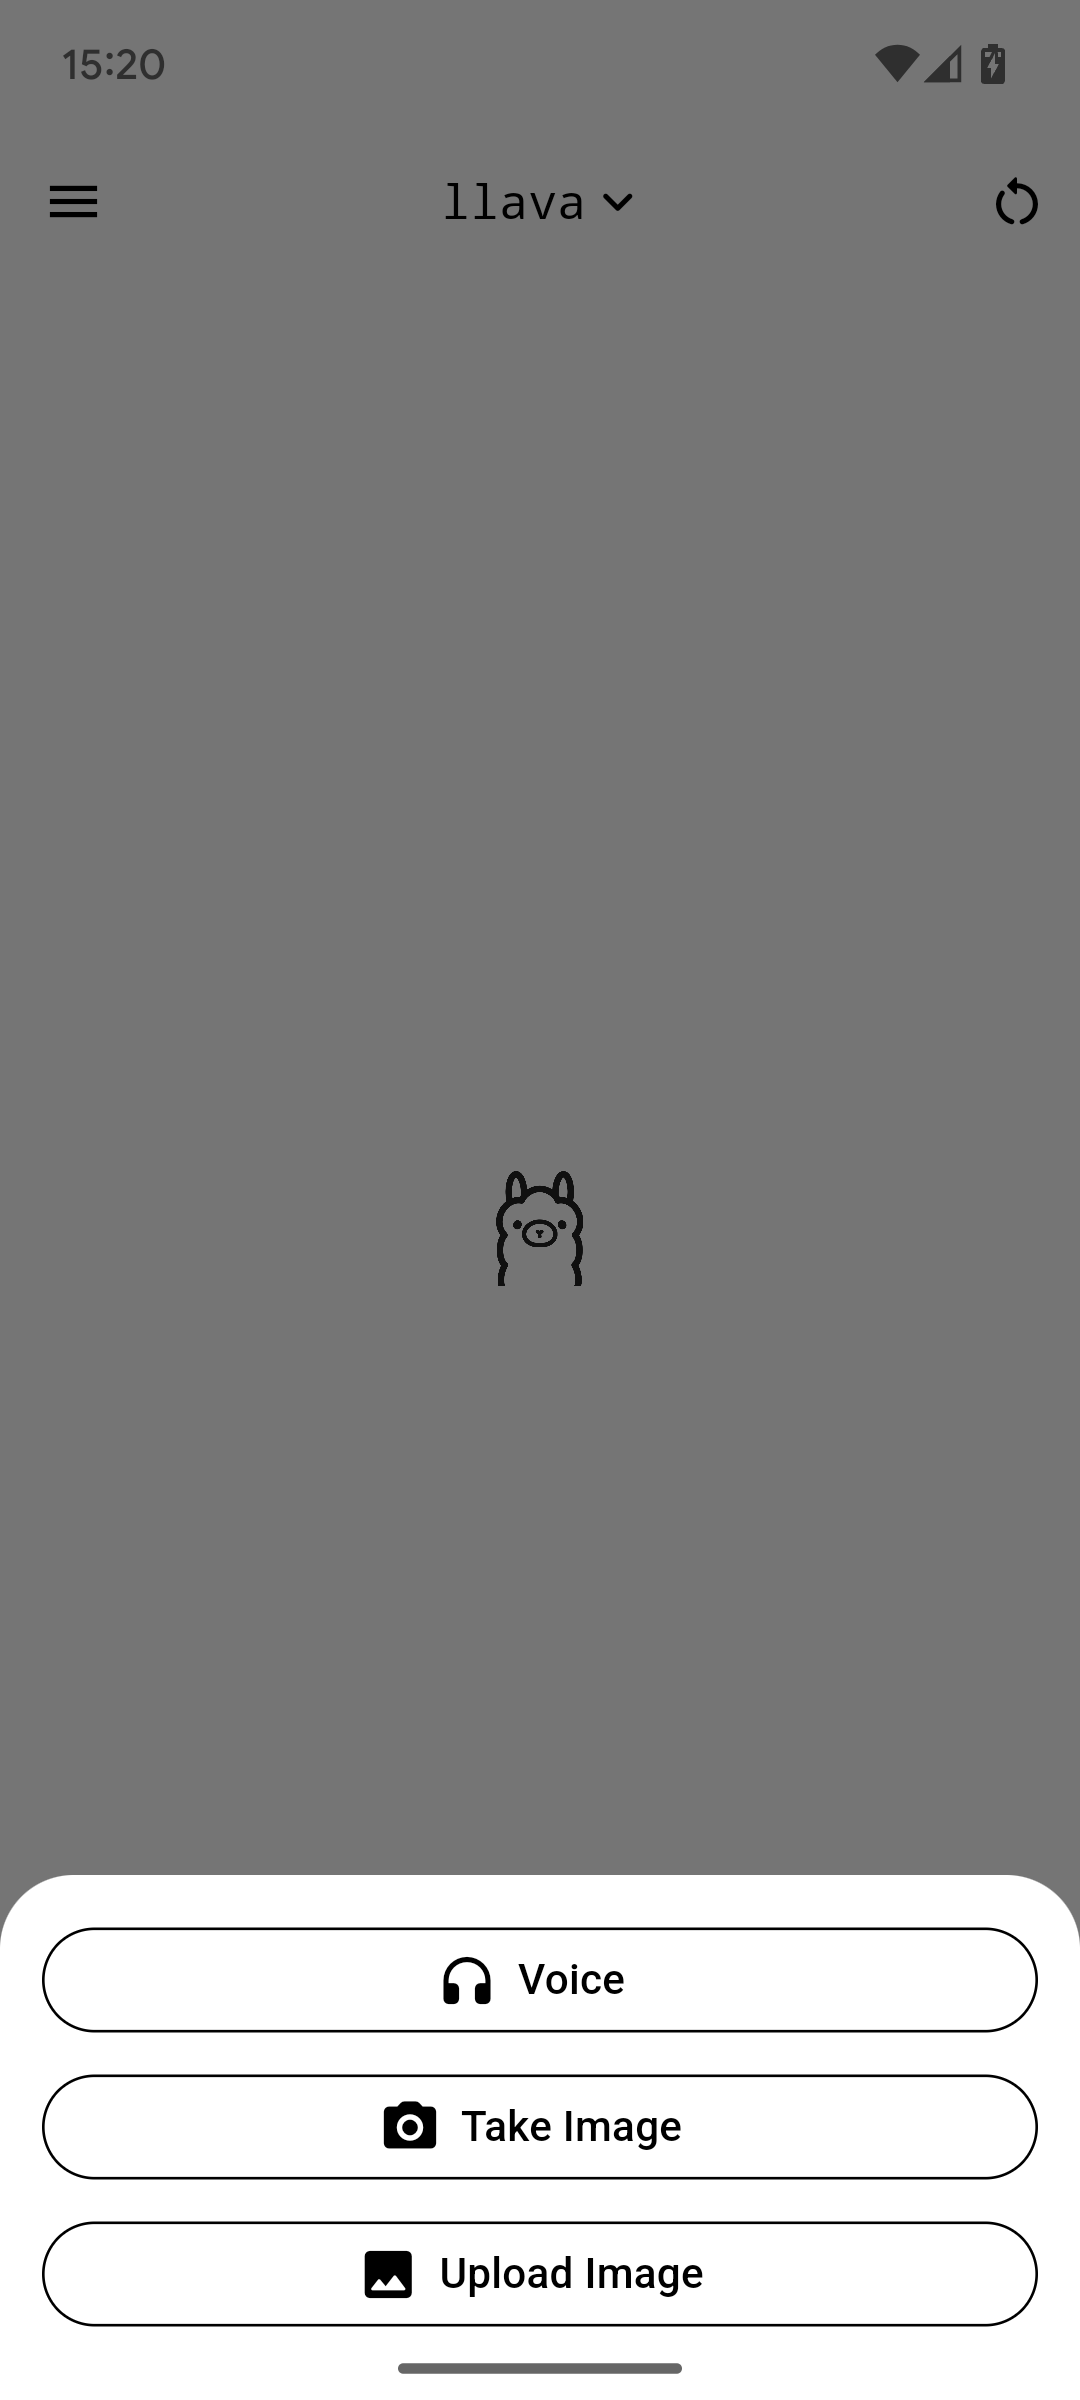
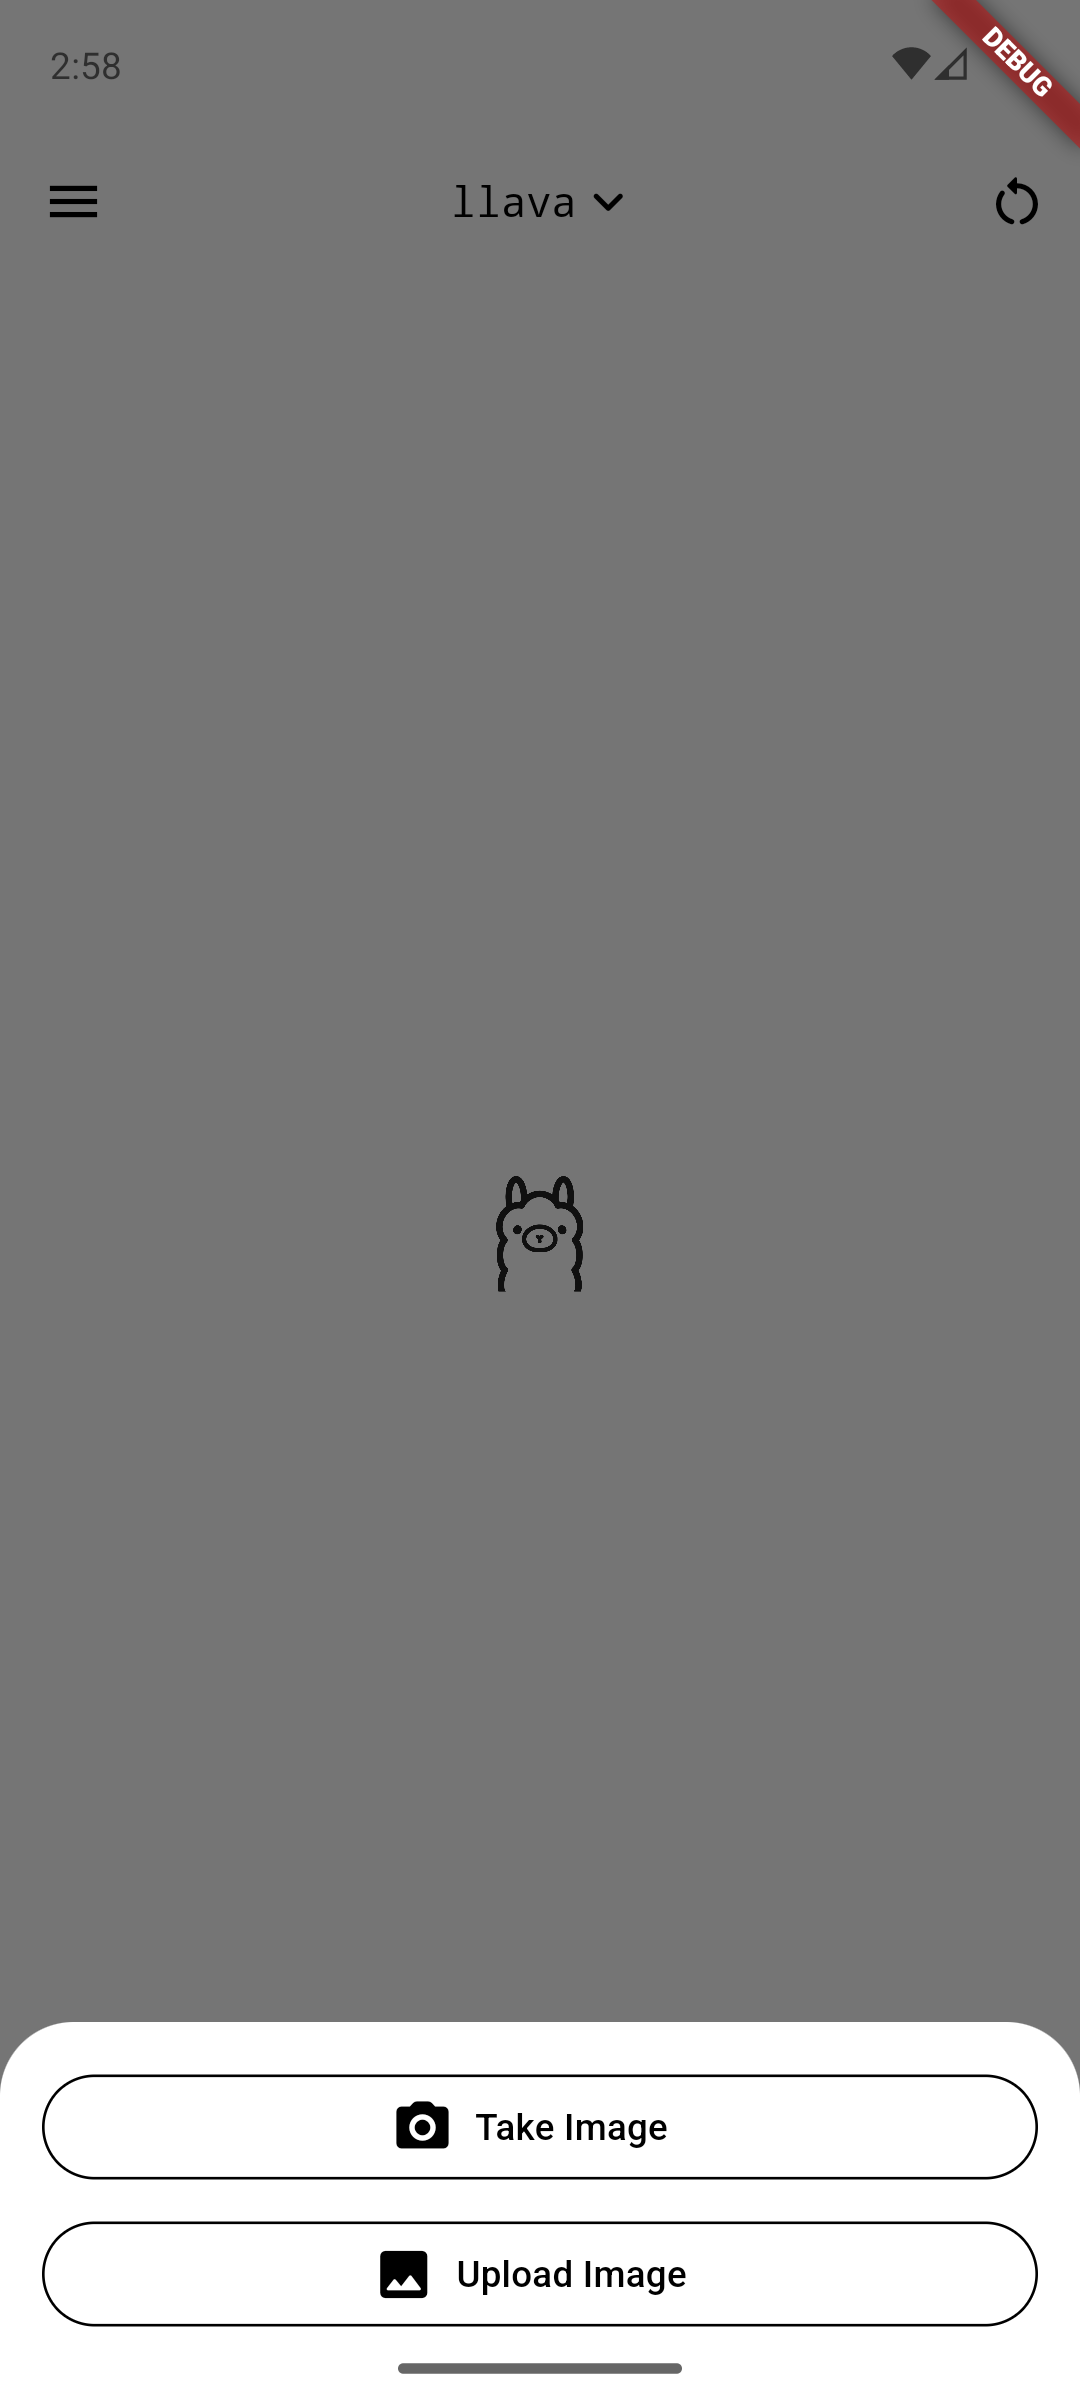
Only allow voice if enabled

diff --git a/lib/main.dart b/lib/main.dart
@@ -118,6 +118,9 @@ class _AppState extends State<App> {
       if ((await Permission.bluetoothConnect.isGranted) &&
           (await Permission.microphone.isGranted)) {
         voiceSupported = await speech.initialize();
+      } else {
+        prefs!.setBool("voiceModeEnabled", false);
+        voiceSupported = false;
       }
 
       SharedPreferences.setPrefix("ollama.");
@@ -1225,28 +1228,44 @@ class _MainAppState extends State<MainApp> {
                                         child: Column(
                                             mainAxisSize: MainAxisSize.min,
                                             children: [
-                                              SizedBox(
-                                                  width: double.infinity,
-                                                  child: OutlinedButton.icon(
-                                                      onPressed: () async {
-                                                        selectionHaptic();
-                                                        Navigator.of(context)
-                                                            .pop();
-                                                        setMainState = setState;
-                                                        settingsOpen = true;
-                                                        logoVisible = false;
-                                                        Navigator.of(context).push(
-                                                            MaterialPageRoute(
-                                                                builder:
-                                                                    (context) =>
-                                                                        const ScreenVoice()));
-                                                      },
-                                                      icon: const Icon(Icons
-                                                          .headphones_rounded),
-                                                      label: Text(AppLocalizations
-                                                              .of(context)!
-                                                          .settingsTitleVoice))),
-                                              const SizedBox(height: 8),
+                                              (prefs?.getBool(
+                                                          "voiceModeEnabled") ??
+                                                      false)
+                                                  ? SizedBox(
+                                                      width: double.infinity,
+                                                      child:
+                                                          OutlinedButton.icon(
+                                                              onPressed:
+                                                                  () async {
+                                                                selectionHaptic();
+                                                                Navigator.of(
+                                                                        context)
+                                                                    .pop();
+                                                                setMainState =
+                                                                    setState;
+                                                                settingsOpen =
+                                                                    true;
+                                                                logoVisible =
+                                                                    false;
+                                                                Navigator.of(
+                                                                        context)
+                                                                    .push(MaterialPageRoute(
+                                                                        builder:
+                                                                            (context) =>
+                                                                                const ScreenVoice()));
+                                                              },
+                                                              icon: const Icon(Icons
+                                                                  .headphones_rounded),
+                                                              label: Text(
+                                                                  AppLocalizations.of(
+                                                                          context)!
+                                                                      .settingsTitleVoice)))
+                                                  : const SizedBox.shrink(),
+                                              (prefs?.getBool(
+                                                          "voiceModeEnabled") ??
+                                                      false)
+                                                  ? const SizedBox(height: 8)
+                                                  : const SizedBox.shrink(),
                                               SizedBox(
                                                   width: double.infinity,
                                                   child: OutlinedButton.icon(

diff --git a/lib/settings/about.dart b/lib/settings/about.dart
@@ -86,7 +86,7 @@ class _ScreenSettingsAboutState extends State<ScreenSettingsAbout> {
                     // const SizedBox(height: 16),
                     button(
                         AppLocalizations.of(context)!
-                            .settingsVersion(currentVersion ?? "0.0.1"),
+                            .settingsVersion(currentVersion ?? ""),
                         Icons.verified_rounded,
                         null),
                     (updateStatus == "notAvailable")
